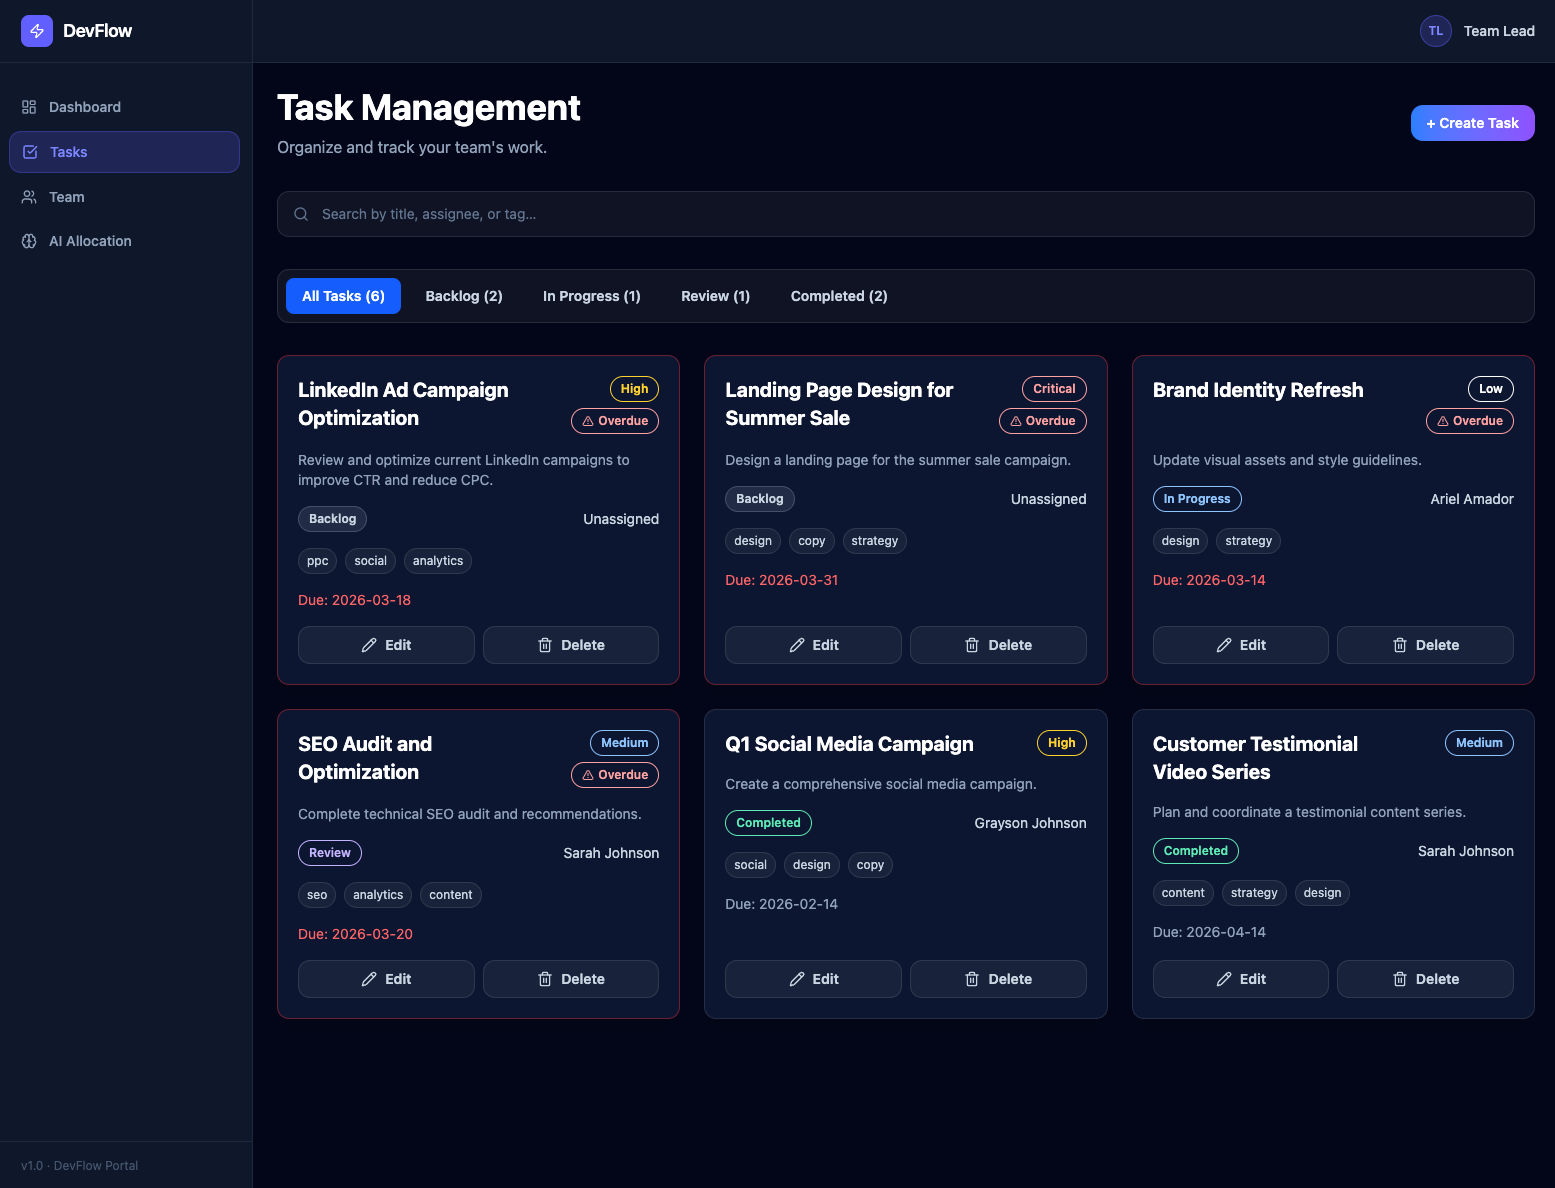
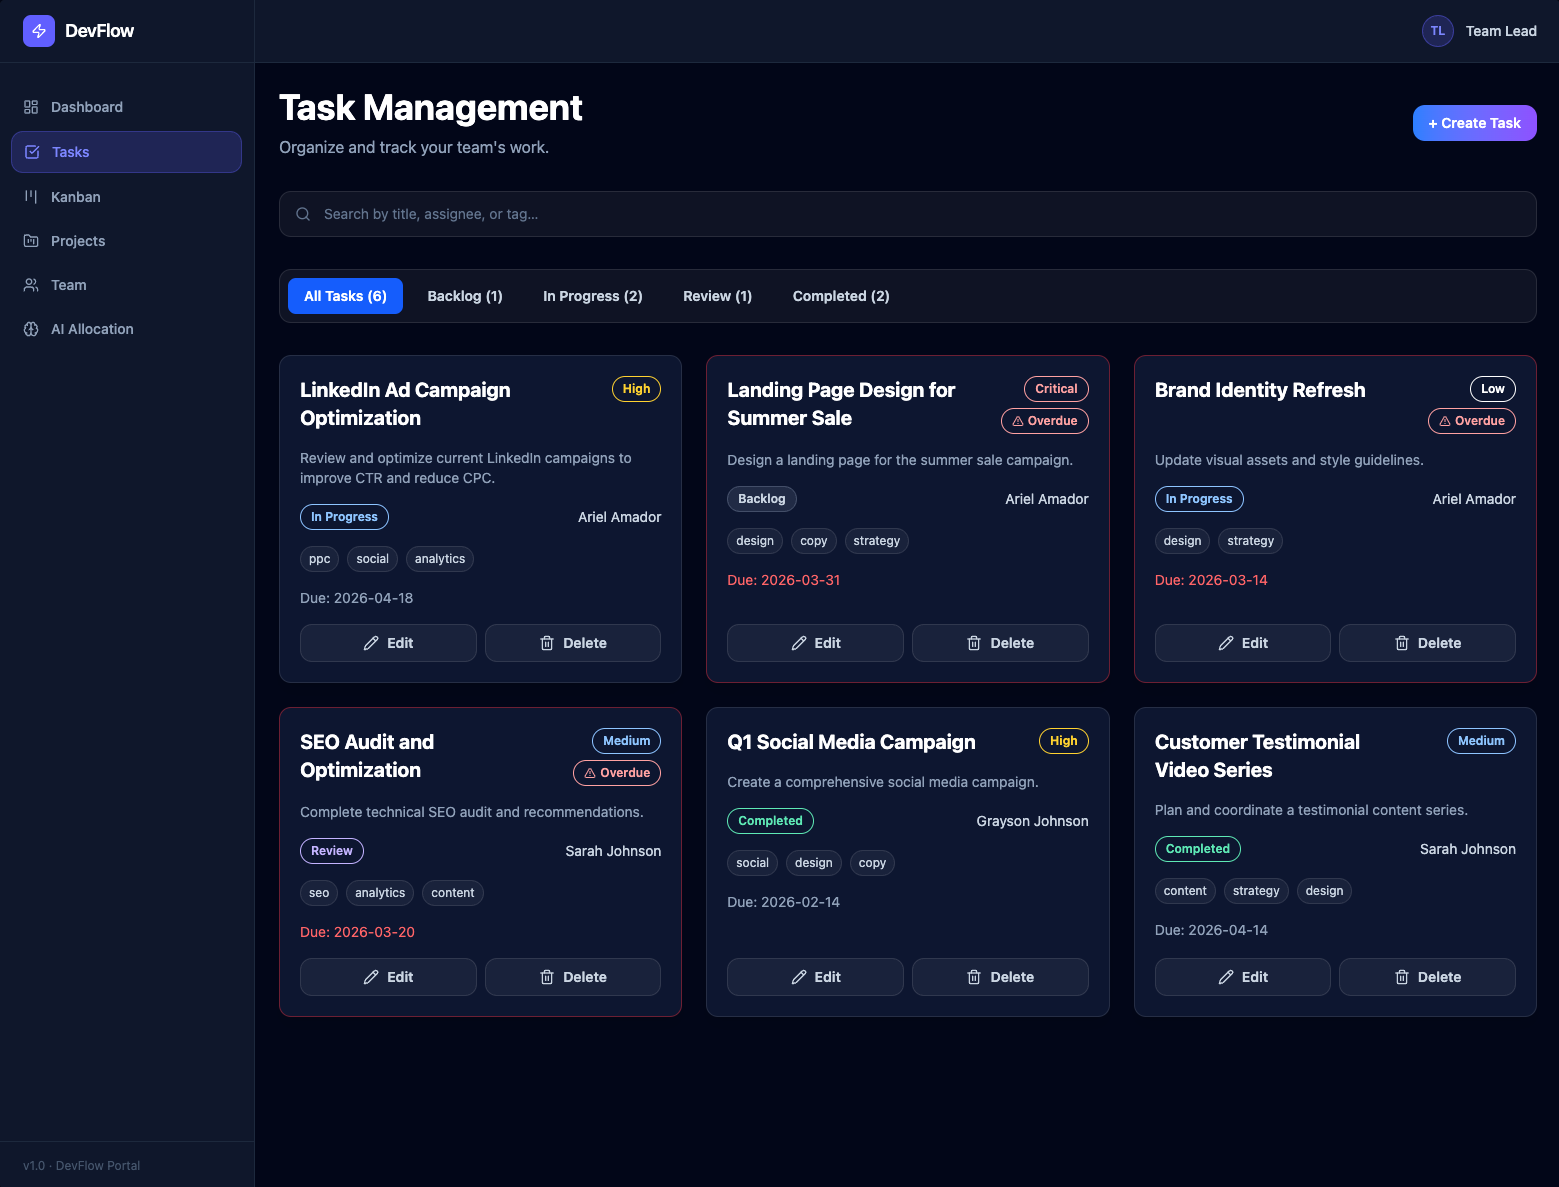
new screenshots

diff --git a/src/data/projects.ts b/src/data/projects.ts
@@ -670,6 +670,18 @@ export const projects: Project[] = [
         src: '/images/projects/dev-flow/screen-03.png',
         alt: 'DevFlow team management view with member profiles and skill radar charts',
       },
+      {
+        src: '/images/projects/dev-flow/screen-04.png',
+        alt: 'DevFlow engineering projects view with live task and workload metrics',
+      },
+      {
+        src: '/images/projects/dev-flow/screen-05.png',
+        alt: 'DevFlow task management view with priority, status, and overdue indicators',
+      },
+      {
+        src: '/images/projects/dev-flow/screen-06.png',
+        alt: 'DevFlow team management view with member profiles and skill radar charts',
+      },
     ],
   },
   {
@@ -1248,7 +1260,7 @@ export const projects: Project[] = [
     image: '/images/projects/react-weather.png',
     liveUrl: 'https://weather-app-snowy-phi.vercel.app',
     codeUrl: 'https://github.com/tworoniak/weather-app',
-    featured: true,
+    // featured: true,
     // problem:
     //   'Tracking cryptocurrency market data across multiple sources can be slow and fragmented.',
 
